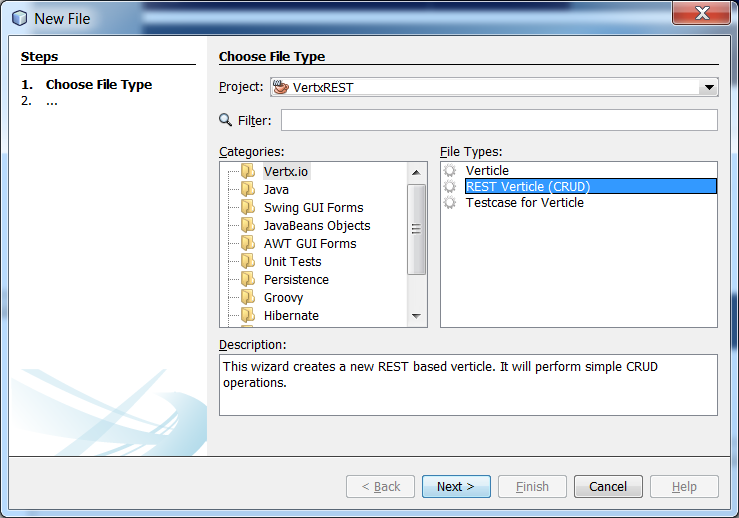
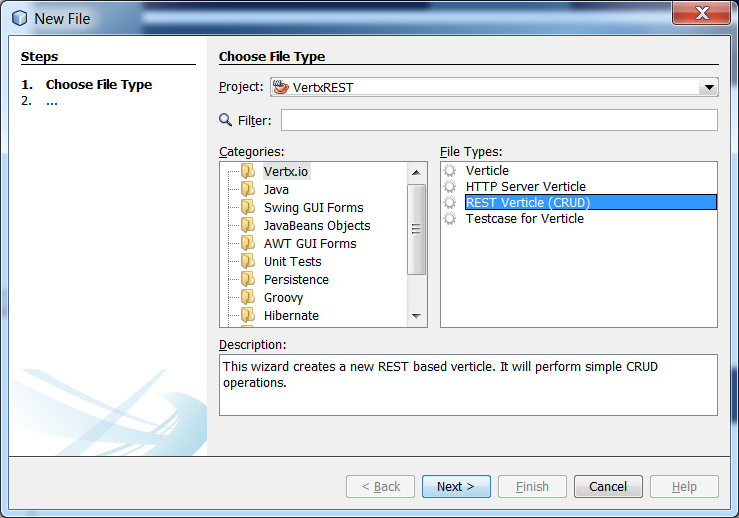
wizard description and screenshot updated

diff --git a/de.te2m.tools.netbeans.vertx/src/main/resources/de/te2m/tools/netbeans/vertx/wizards/verticle/http/verticleHTTP.html b/de.te2m.tools.netbeans.vertx/src/main/resources/de/te2m/tools/netbeans/vertx/wizards/verticle/http/verticleHTTP.html
@@ -3,6 +3,6 @@
         <meta http-equiv="Content-Type" content="text/html; charset=UTF-8">
     </head>
     <body>
-        This wizard creates a new REST based verticle. It will perform simple CRUD operations.
+        This wizard creates a new simple web server verticle for serving static content.
     </body>
 </html>
